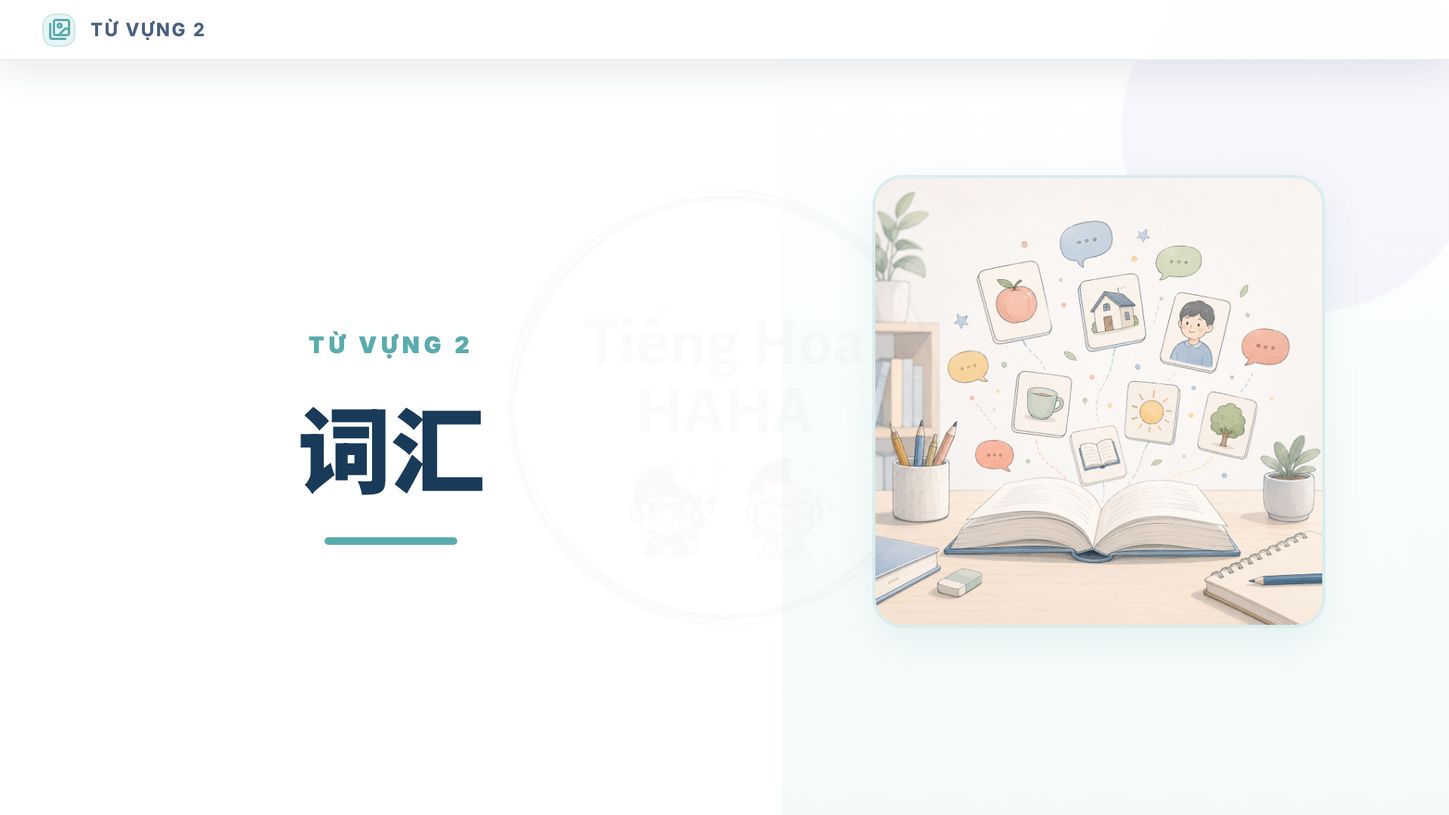
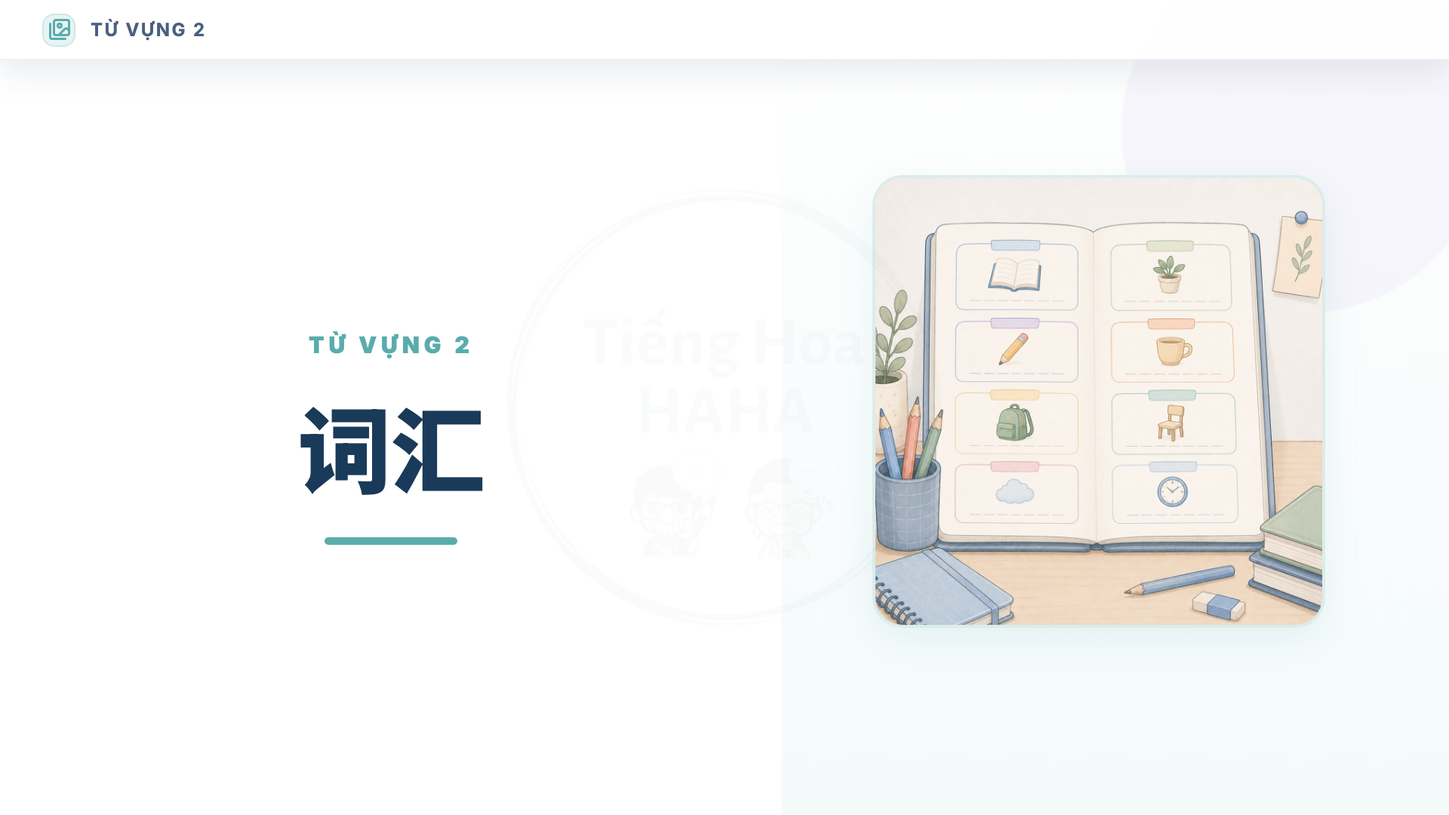
updated images of pinyin lesson 3

Changed region(s): [[0.5938, 0.2444, 0.9375, 0.7639]]

diff --git a/output/pinyin/pinyin-03/slides/38-rule-yi-first-tone.html b/output/pinyin/pinyin-03/slides/38-rule-yi-first-tone.html
@@ -1,4 +1,4 @@
-<!DOCTYPE html><html lang="vi"><head><meta charset="UTF-8"><meta name="viewport" content="width=960,height=540"><title>一 đọc yī</title><link href="https://fonts.googleapis.com/css2?family=Inter:wght@400;500;600;700;800;900&family=Noto+Sans+SC:wght@400;700;900&display=swap" rel="stylesheet"><script src="https://unpkg.com/lucide@0.460.0/dist/umd/lucide.min.js"></script><link rel="stylesheet" href="assets/slide-base.css"><style>
+<!DOCTYPE html><html lang="vi"><head><meta charset="UTF-8"><meta name="viewport" content="width=960,height=540"><title>Khi nào 一 đọc thanh 1?</title><link href="https://fonts.googleapis.com/css2?family=Inter:wght@400;500;600;700;800;900&family=Noto+Sans+SC:wght@400;700;900&display=swap" rel="stylesheet"><script src="https://unpkg.com/lucide@0.460.0/dist/umd/lucide.min.js"></script><link rel="stylesheet" href="assets/slide-base.css"><style>
 .content{position:absolute;left:58px;right:58px;top:68px;bottom:42px}
 .title-xl{font-size:34px;line-height:1.12;font-weight:900;color:#1A3A5A}.title-md{font-size:27px;line-height:1.16;font-weight:900;color:#1A3A5A}
 .muted{color:#5F7088}.teal{color:#5AACAC}.purple{color:#7C6BC8}.amber{color:#D59A2A}.red{color:#D85A6A}
@@ -28,4 +28,4 @@
 .listen-head{display:flex;align-items:center;justify-content:center;margin-bottom:16px;text-align:center}.listen-title{font-size:34px;font-weight:900;color:#1A3A5A;line-height:1.14}.final-bank{width:760px;margin:10px auto 22px;background:rgba(255,255,255,.86);border:1px solid rgba(90,172,172,.16);border-radius:16px;text-align:center;padding:10px 18px;box-shadow:0 6px 20px rgba(90,172,172,.08)}.final-bank-title{font-size:18px;color:#5F7088;font-weight:800;margin-bottom:6px}.finals{display:flex;justify-content:space-around;font-size:25px;font-weight:900;color:#3B7DB4}.listen-grid{width:760px;margin:0 auto;display:grid;grid-template-columns:repeat(3,1fr);column-gap:58px;row-gap:24px}.listen-item{font-size:28px;color:#202530;line-height:1.1;white-space:nowrap}.listen-no{font-size:26px;margin-right:8px;color:#202530}.blank{display:inline-block;width:52px;border-bottom:3px solid #202530;transform:translateY(-3px);margin:0 4px}.blank.short{width:44px}.initial-cue{display:inline-block;min-width:48px;text-align:center;font-weight:900;color:#1A3A5A;margin-right:4px}.answer-red{color:#F05A62;font-weight:950}.tone-cued{position:relative;display:inline-block;line-height:1;margin:0 1px;padding-top:12px;vertical-align:baseline}.tone-cue{position:absolute;top:0;left:50%;transform:translateX(-50%);font-size:12px;line-height:1;color:#8A9AB0;font-weight:900;white-space:nowrap}.tone-letter{line-height:1}
 
 .rule-center{position:absolute;left:60px;right:60px;top:92px;bottom:54px;display:flex;flex-direction:column;align-items:center;justify-content:center}.rule-center .title-xl{text-align:center;margin-bottom:28px}.rule-grid{width:100%;display:grid;grid-template-columns:repeat(3,1fr);gap:18px}.rule-card{height:154px;display:grid;grid-template-columns:1fr auto 1fr;align-items:center;justify-items:center;text-align:center;gap:10px}.rule-card .from,.rule-card .to{font-size:46px;line-height:1;font-weight:950;color:#1A3A5A}.rule-card .from{color:#7C6BC8}.rule-card .arrow{font-size:34px;font-weight:950;color:#5AACAC}.closing{position:relative;overflow:hidden;background:linear-gradient(112deg,#F5FAF4 0%,#FFFFFF 46%,#DFF1E8 100%)}.closing:before{content:"";position:absolute;left:34px;top:24px;width:300px;height:246px;border-radius:54% 46% 44% 56%;background:rgba(149,212,187,.23);z-index:0}.closing:after{content:"";position:absolute;right:-54px;bottom:-108px;width:372px;height:294px;border-radius:55% 45% 50% 50%;background:rgba(149,212,187,.20);z-index:0}.closing-card-ref{position:absolute;left:96px;right:84px;top:88px;bottom:62px;border-radius:34px;background:rgba(255,255,255,.96);box-shadow:0 18px 34px rgba(36,50,74,.18);z-index:1;display:flex;flex-direction:column;align-items:center;justify-content:center;text-align:center;padding-left:164px}.closing-door{position:absolute;left:-36px;top:-64px;width:290px;height:266px;object-fit:contain;z-index:2;filter:drop-shadow(0 6px 10px rgba(36,50,74,.10))}.closing-zh{font-family:'Noto Sans SC';font-size:84pt;line-height:.92;font-weight:900;color:#143C68;letter-spacing:0}.closing-sub{margin-top:30px;font-size:29pt;line-height:1.1;font-weight:900;color:#7BC6A7}.closing-next{margin-top:22px;font-size:17pt;line-height:1.25;font-weight:700;color:#6B6F76}
-.yi-first-content{top:86px}.yi-first-title{font-size:52px;line-height:1;font-weight:900;color:#1A3A5A;text-align:left}.yi-first-title span{font-family:'Noto Sans SC';color:#D85A6A}.yi-first-title b{color:#D85A6A}.yi-first-grid{display:grid;grid-template-columns:1fr 1fr;gap:22px;margin-top:24px}.yi-first-card{height:300px;padding:24px 26px}.yi-first-card-title{font-size:30px;line-height:1.1;font-weight:900;color:#1A3A5A}.yi-first-note{font-size:17px;line-height:1.35;font-weight:800;color:#5F7088;margin-top:8px}.yi-first-examples{display:flex;flex-direction:column;gap:12px;margin-top:18px}.yi-first-example{height:54px;border-radius:14px;background:#F7FBFB;border:1px solid rgba(90,172,172,.28);display:flex;align-items:center;justify-content:space-between;padding:0 18px}.yi-first-example .pin{font-size:21px;line-height:1;font-weight:900;color:#D85A6A}.yi-first-example .han{font-family:'Noto Sans SC';font-size:28px;line-height:1;font-weight:900;color:#1A3A5A}</style></head><body><div class="slide"><div class="menu-bar"><span class="menu-icon"><i data-lucide="wand-sparkles"></i></span><span class="section-label">Biến điệu</span></div><div class="content yi-first-content"><div class="yi-first-title"><span>一</span> đọc <b>yī</b></div><div class="yi-first-grid"><div class="soft-card yi-first-card"><div class="yi-first-card-title">Đọc thứ tự</div><div class="yi-first-note">Từ chỉ thứ tự.</div><div class="yi-first-examples"><div class="yi-first-example"><div class="pin">xīngqīyī</div><div class="han">星期一</div></div><div class="yi-first-example"><div class="pin">dìyī</div><div class="han">第一</div></div><div class="yi-first-example"><div class="pin">yīlóu</div><div class="han">一楼</div></div></div></div><div class="soft-card yi-first-card"><div class="yi-first-card-title">Đọc từng số</div><div class="yi-first-note">Khi đọc số điện thoại, năm, mã số.</div><div class="yi-first-examples"><div class="yi-first-example"><div class="pin">yī, sān, jiǔ...</div><div class="han">1, 3, 9...</div></div><div class="yi-first-example"><div class="pin">èr líng yī liù</div><div class="han">2016</div></div></div></div></div></div></div><script src="assets/slide-base.js"></script></body></html>
+.yi-first-content{top:86px}.yi-first-title{font-size:52px;line-height:1;font-weight:900;color:#1A3A5A;text-align:left}.yi-first-title span{font-family:'Noto Sans SC';color:#D85A6A}.yi-first-title b{color:#D85A6A}.yi-first-grid{display:grid;grid-template-columns:1fr 1fr;gap:22px;margin-top:24px}.yi-first-card{height:300px;padding:24px 26px}.yi-first-card-title{font-size:30px;line-height:1.1;font-weight:900;color:#1A3A5A}.yi-first-note{font-size:17px;line-height:1.35;font-weight:800;color:#5F7088;margin-top:8px}.yi-first-examples{display:flex;flex-direction:column;gap:12px;margin-top:18px}.yi-first-example{height:54px;border-radius:14px;background:#F7FBFB;border:1px solid rgba(90,172,172,.28);display:flex;align-items:center;justify-content:space-between;padding:0 18px}.yi-first-example .pin{font-size:21px;line-height:1;font-weight:900;color:#D85A6A}.yi-first-example .han{font-family:'Noto Sans SC';font-size:28px;line-height:1;font-weight:900;color:#1A3A5A}</style></head><body><div class="slide"><div class="menu-bar"><span class="menu-icon"><i data-lucide="wand-sparkles"></i></span><span class="section-label">Biến điệu</span></div><div class="content yi-first-content"><div class="yi-first-title">Khi nào <span>一</span> đọc thanh 1?</div><div class="yi-first-grid"><div class="soft-card yi-first-card"><div class="yi-first-card-title">Đọc thứ tự</div><div class="yi-first-note">Từ chỉ thứ tự.</div><div class="yi-first-examples"><div class="yi-first-example"><div class="pin">xīngqīyī</div><div class="han">星期一</div></div><div class="yi-first-example"><div class="pin">dìyī</div><div class="han">第一</div></div><div class="yi-first-example"><div class="pin">yīlóu</div><div class="han">一楼</div></div></div></div><div class="soft-card yi-first-card"><div class="yi-first-card-title">Đọc từng số</div><div class="yi-first-note">Khi đọc số điện thoại, năm, mã số.</div><div class="yi-first-examples"><div class="yi-first-example"><div class="pin">yī, sān, jiǔ...</div><div class="han">1, 3, 9...</div></div><div class="yi-first-example"><div class="pin">èr líng yī liù</div><div class="han">2016</div></div></div></div></div></div></div><script src="assets/slide-base.js"></script></body></html>

diff --git a/output/pinyin/pinyin-03/slides/37-divider-yi-bu.html b/output/pinyin/pinyin-03/slides/37-divider-yi-bu.html
@@ -28,4 +28,4 @@
 .listen-head{display:flex;align-items:center;justify-content:center;margin-bottom:16px;text-align:center}.listen-title{font-size:34px;font-weight:900;color:#1A3A5A;line-height:1.14}.final-bank{width:760px;margin:10px auto 22px;background:rgba(255,255,255,.86);border:1px solid rgba(90,172,172,.16);border-radius:16px;text-align:center;padding:10px 18px;box-shadow:0 6px 20px rgba(90,172,172,.08)}.final-bank-title{font-size:18px;color:#5F7088;font-weight:800;margin-bottom:6px}.finals{display:flex;justify-content:space-around;font-size:25px;font-weight:900;color:#3B7DB4}.listen-grid{width:760px;margin:0 auto;display:grid;grid-template-columns:repeat(3,1fr);column-gap:58px;row-gap:24px}.listen-item{font-size:28px;color:#202530;line-height:1.1;white-space:nowrap}.listen-no{font-size:26px;margin-right:8px;color:#202530}.blank{display:inline-block;width:52px;border-bottom:3px solid #202530;transform:translateY(-3px);margin:0 4px}.blank.short{width:44px}.initial-cue{display:inline-block;min-width:48px;text-align:center;font-weight:900;color:#1A3A5A;margin-right:4px}.answer-red{color:#F05A62;font-weight:950}.tone-cued{position:relative;display:inline-block;line-height:1;margin:0 1px;padding-top:12px;vertical-align:baseline}.tone-cue{position:absolute;top:0;left:50%;transform:translateX(-50%);font-size:12px;line-height:1;color:#8A9AB0;font-weight:900;white-space:nowrap}.tone-letter{line-height:1}
 
 .rule-center{position:absolute;left:60px;right:60px;top:92px;bottom:54px;display:flex;flex-direction:column;align-items:center;justify-content:center}.rule-center .title-xl{text-align:center;margin-bottom:28px}.rule-grid{width:100%;display:grid;grid-template-columns:repeat(3,1fr);gap:18px}.rule-card{height:154px;display:grid;grid-template-columns:1fr auto 1fr;align-items:center;justify-items:center;text-align:center;gap:10px}.rule-card .from,.rule-card .to{font-size:46px;line-height:1;font-weight:950;color:#1A3A5A}.rule-card .from{color:#7C6BC8}.rule-card .arrow{font-size:34px;font-weight:950;color:#5AACAC}.closing{position:relative;overflow:hidden;background:linear-gradient(112deg,#F5FAF4 0%,#FFFFFF 46%,#DFF1E8 100%)}.closing:before{content:"";position:absolute;left:34px;top:24px;width:300px;height:246px;border-radius:54% 46% 44% 56%;background:rgba(149,212,187,.23);z-index:0}.closing:after{content:"";position:absolute;right:-54px;bottom:-108px;width:372px;height:294px;border-radius:55% 45% 50% 50%;background:rgba(149,212,187,.20);z-index:0}.closing-card-ref{position:absolute;left:96px;right:84px;top:88px;bottom:62px;border-radius:34px;background:rgba(255,255,255,.96);box-shadow:0 18px 34px rgba(36,50,74,.18);z-index:1;display:flex;flex-direction:column;align-items:center;justify-content:center;text-align:center;padding-left:164px}.closing-door{position:absolute;left:-36px;top:-64px;width:290px;height:266px;object-fit:contain;z-index:2;filter:drop-shadow(0 6px 10px rgba(36,50,74,.10))}.closing-zh{font-family:'Noto Sans SC';font-size:84pt;line-height:.92;font-weight:900;color:#143C68;letter-spacing:0}.closing-sub{margin-top:30px;font-size:29pt;line-height:1.1;font-weight:900;color:#7BC6A7}.closing-next{margin-top:22px;font-size:17pt;line-height:1.25;font-weight:700;color:#6B6F76}
-</style></head><body><div class="slide"><div class="menu-bar"><span class="menu-icon"><i data-lucide="wand-sparkles"></i></span><span class="section-label">BIẾN ĐIỆU</span></div><div class="divider-left"><div class="divider-kicker">BIẾN ĐIỆU</div><div class="divider-zh">一不变调</div><div class="divider-line"></div></div><div class="divider-photo"><img src="assets/photos/divider-tones.png" alt=""></div></div><script src="assets/slide-base.js"></script></body></html>
+.divider-yi-bu-special .divider-kicker{font-size:22px;line-height:1.18;text-transform:none;letter-spacing:0;max-width:360px}.divider-yi-bu-special .divider-zh{font-size:56px;white-space:nowrap}</style></head><body><div class="slide"><div class="menu-bar"><span class="menu-icon"><i data-lucide="wand-sparkles"></i></span><span class="section-label">biến điệu của 一 và 不</span></div><div class="divider-left divider-yi-bu-special"><div class="divider-kicker">biến điệu của 一 và 不</div><div class="divider-zh">一、不变调</div><div class="divider-line"></div></div><div class="divider-photo"><img src="assets/photos/divider-yi-bu-pinyin-03.png" alt=""></div></div><script src="assets/slide-base.js"></script></body></html>

diff --git a/output/pinyin/pinyin-03/slides/05-divider-initials-1.html b/output/pinyin/pinyin-03/slides/05-divider-initials-1.html
@@ -28,4 +28,4 @@
 .listen-head{display:flex;align-items:center;justify-content:center;margin-bottom:16px;text-align:center}.listen-title{font-size:34px;font-weight:900;color:#1A3A5A;line-height:1.14}.final-bank{width:760px;margin:10px auto 22px;background:rgba(255,255,255,.86);border:1px solid rgba(90,172,172,.16);border-radius:16px;text-align:center;padding:10px 18px;box-shadow:0 6px 20px rgba(90,172,172,.08)}.final-bank-title{font-size:18px;color:#5F7088;font-weight:800;margin-bottom:6px}.finals{display:flex;justify-content:space-around;font-size:25px;font-weight:900;color:#3B7DB4}.listen-grid{width:760px;margin:0 auto;display:grid;grid-template-columns:repeat(3,1fr);column-gap:58px;row-gap:24px}.listen-item{font-size:28px;color:#202530;line-height:1.1;white-space:nowrap}.listen-no{font-size:26px;margin-right:8px;color:#202530}.blank{display:inline-block;width:52px;border-bottom:3px solid #202530;transform:translateY(-3px);margin:0 4px}.blank.short{width:44px}.initial-cue{display:inline-block;min-width:48px;text-align:center;font-weight:900;color:#1A3A5A;margin-right:4px}.answer-red{color:#F05A62;font-weight:950}.tone-cued{position:relative;display:inline-block;line-height:1;margin:0 1px;padding-top:12px;vertical-align:baseline}.tone-cue{position:absolute;top:0;left:50%;transform:translateX(-50%);font-size:12px;line-height:1;color:#8A9AB0;font-weight:900;white-space:nowrap}.tone-letter{line-height:1}
 
 .rule-center{position:absolute;left:60px;right:60px;top:92px;bottom:54px;display:flex;flex-direction:column;align-items:center;justify-content:center}.rule-center .title-xl{text-align:center;margin-bottom:28px}.rule-grid{width:100%;display:grid;grid-template-columns:repeat(3,1fr);gap:18px}.rule-card{height:154px;display:grid;grid-template-columns:1fr auto 1fr;align-items:center;justify-items:center;text-align:center;gap:10px}.rule-card .from,.rule-card .to{font-size:46px;line-height:1;font-weight:950;color:#1A3A5A}.rule-card .from{color:#7C6BC8}.rule-card .arrow{font-size:34px;font-weight:950;color:#5AACAC}.closing{position:relative;overflow:hidden;background:linear-gradient(112deg,#F5FAF4 0%,#FFFFFF 46%,#DFF1E8 100%)}.closing:before{content:"";position:absolute;left:34px;top:24px;width:300px;height:246px;border-radius:54% 46% 44% 56%;background:rgba(149,212,187,.23);z-index:0}.closing:after{content:"";position:absolute;right:-54px;bottom:-108px;width:372px;height:294px;border-radius:55% 45% 50% 50%;background:rgba(149,212,187,.20);z-index:0}.closing-card-ref{position:absolute;left:96px;right:84px;top:88px;bottom:62px;border-radius:34px;background:rgba(255,255,255,.96);box-shadow:0 18px 34px rgba(36,50,74,.18);z-index:1;display:flex;flex-direction:column;align-items:center;justify-content:center;text-align:center;padding-left:164px}.closing-door{position:absolute;left:-36px;top:-64px;width:290px;height:266px;object-fit:contain;z-index:2;filter:drop-shadow(0 6px 10px rgba(36,50,74,.10))}.closing-zh{font-family:'Noto Sans SC';font-size:84pt;line-height:.92;font-weight:900;color:#143C68;letter-spacing:0}.closing-sub{margin-top:30px;font-size:29pt;line-height:1.1;font-weight:900;color:#7BC6A7}.closing-next{margin-top:22px;font-size:17pt;line-height:1.25;font-weight:700;color:#6B6F76}
-</style></head><body><div class="slide"><div class="menu-bar"><span class="menu-icon"><i data-lucide="volume-2"></i></span><span class="section-label">THANH MẪU 1</span></div><div class="divider-left"><div class="divider-kicker">THANH MẪU 1</div><div class="divider-zh">翘舌音</div><div class="divider-line"></div></div><div class="divider-photo"><img src="assets/photos/divider-initials.png" alt=""></div></div><script src="assets/slide-base.js"></script></body></html>
+</style></head><body><div class="slide"><div class="menu-bar"><span class="menu-icon"><i data-lucide="volume-2"></i></span><span class="section-label">THANH MẪU 1</span></div><div class="divider-left"><div class="divider-kicker">THANH MẪU 1</div><div class="divider-zh">翘舌音</div><div class="divider-line"></div></div><div class="divider-photo"><img src="assets/photos/divider-initials-zhchshr.png" alt=""></div></div><script src="assets/slide-base.js"></script></body></html>

diff --git a/output/pinyin/pinyin-03/slides/09-divider-vocabulary-1.html b/output/pinyin/pinyin-03/slides/09-divider-vocabulary-1.html
@@ -28,4 +28,4 @@
 .listen-head{display:flex;align-items:center;justify-content:center;margin-bottom:16px;text-align:center}.listen-title{font-size:34px;font-weight:900;color:#1A3A5A;line-height:1.14}.final-bank{width:760px;margin:10px auto 22px;background:rgba(255,255,255,.86);border:1px solid rgba(90,172,172,.16);border-radius:16px;text-align:center;padding:10px 18px;box-shadow:0 6px 20px rgba(90,172,172,.08)}.final-bank-title{font-size:18px;color:#5F7088;font-weight:800;margin-bottom:6px}.finals{display:flex;justify-content:space-around;font-size:25px;font-weight:900;color:#3B7DB4}.listen-grid{width:760px;margin:0 auto;display:grid;grid-template-columns:repeat(3,1fr);column-gap:58px;row-gap:24px}.listen-item{font-size:28px;color:#202530;line-height:1.1;white-space:nowrap}.listen-no{font-size:26px;margin-right:8px;color:#202530}.blank{display:inline-block;width:52px;border-bottom:3px solid #202530;transform:translateY(-3px);margin:0 4px}.blank.short{width:44px}.initial-cue{display:inline-block;min-width:48px;text-align:center;font-weight:900;color:#1A3A5A;margin-right:4px}.answer-red{color:#F05A62;font-weight:950}.tone-cued{position:relative;display:inline-block;line-height:1;margin:0 1px;padding-top:12px;vertical-align:baseline}.tone-cue{position:absolute;top:0;left:50%;transform:translateX(-50%);font-size:12px;line-height:1;color:#8A9AB0;font-weight:900;white-space:nowrap}.tone-letter{line-height:1}
 
 .rule-center{position:absolute;left:60px;right:60px;top:92px;bottom:54px;display:flex;flex-direction:column;align-items:center;justify-content:center}.rule-center .title-xl{text-align:center;margin-bottom:28px}.rule-grid{width:100%;display:grid;grid-template-columns:repeat(3,1fr);gap:18px}.rule-card{height:154px;display:grid;grid-template-columns:1fr auto 1fr;align-items:center;justify-items:center;text-align:center;gap:10px}.rule-card .from,.rule-card .to{font-size:46px;line-height:1;font-weight:950;color:#1A3A5A}.rule-card .from{color:#7C6BC8}.rule-card .arrow{font-size:34px;font-weight:950;color:#5AACAC}.closing{position:relative;overflow:hidden;background:linear-gradient(112deg,#F5FAF4 0%,#FFFFFF 46%,#DFF1E8 100%)}.closing:before{content:"";position:absolute;left:34px;top:24px;width:300px;height:246px;border-radius:54% 46% 44% 56%;background:rgba(149,212,187,.23);z-index:0}.closing:after{content:"";position:absolute;right:-54px;bottom:-108px;width:372px;height:294px;border-radius:55% 45% 50% 50%;background:rgba(149,212,187,.20);z-index:0}.closing-card-ref{position:absolute;left:96px;right:84px;top:88px;bottom:62px;border-radius:34px;background:rgba(255,255,255,.96);box-shadow:0 18px 34px rgba(36,50,74,.18);z-index:1;display:flex;flex-direction:column;align-items:center;justify-content:center;text-align:center;padding-left:164px}.closing-door{position:absolute;left:-36px;top:-64px;width:290px;height:266px;object-fit:contain;z-index:2;filter:drop-shadow(0 6px 10px rgba(36,50,74,.10))}.closing-zh{font-family:'Noto Sans SC';font-size:84pt;line-height:.92;font-weight:900;color:#143C68;letter-spacing:0}.closing-sub{margin-top:30px;font-size:29pt;line-height:1.1;font-weight:900;color:#7BC6A7}.closing-next{margin-top:22px;font-size:17pt;line-height:1.25;font-weight:700;color:#6B6F76}
-</style></head><body><div class="slide"><div class="menu-bar"><span class="menu-icon"><i data-lucide="images"></i></span><span class="section-label">TỪ VỰNG 1</span></div><div class="divider-left"><div class="divider-kicker">TỪ VỰNG 1</div><div class="divider-zh">词汇</div><div class="divider-line"></div></div><div class="divider-photo"><img src="assets/photos/divider-vocabulary.png" alt=""></div></div><script src="assets/slide-base.js"></script></body></html>
+</style></head><body><div class="slide"><div class="menu-bar"><span class="menu-icon"><i data-lucide="images"></i></span><span class="section-label">TỪ VỰNG 1</span></div><div class="divider-left"><div class="divider-kicker">TỪ VỰNG 1</div><div class="divider-zh">词汇</div><div class="divider-line"></div></div><div class="divider-photo"><img src="assets/photos/divider-vocabulary-pinyin-03.png" alt=""></div></div><script src="assets/slide-base.js"></script></body></html>

diff --git a/output/pinyin/pinyin-03/slides/21-divider-initials-2.html b/output/pinyin/pinyin-03/slides/21-divider-initials-2.html
@@ -28,4 +28,4 @@
 .listen-head{display:flex;align-items:center;justify-content:center;margin-bottom:16px;text-align:center}.listen-title{font-size:34px;font-weight:900;color:#1A3A5A;line-height:1.14}.final-bank{width:760px;margin:10px auto 22px;background:rgba(255,255,255,.86);border:1px solid rgba(90,172,172,.16);border-radius:16px;text-align:center;padding:10px 18px;box-shadow:0 6px 20px rgba(90,172,172,.08)}.final-bank-title{font-size:18px;color:#5F7088;font-weight:800;margin-bottom:6px}.finals{display:flex;justify-content:space-around;font-size:25px;font-weight:900;color:#3B7DB4}.listen-grid{width:760px;margin:0 auto;display:grid;grid-template-columns:repeat(3,1fr);column-gap:58px;row-gap:24px}.listen-item{font-size:28px;color:#202530;line-height:1.1;white-space:nowrap}.listen-no{font-size:26px;margin-right:8px;color:#202530}.blank{display:inline-block;width:52px;border-bottom:3px solid #202530;transform:translateY(-3px);margin:0 4px}.blank.short{width:44px}.initial-cue{display:inline-block;min-width:48px;text-align:center;font-weight:900;color:#1A3A5A;margin-right:4px}.answer-red{color:#F05A62;font-weight:950}.tone-cued{position:relative;display:inline-block;line-height:1;margin:0 1px;padding-top:12px;vertical-align:baseline}.tone-cue{position:absolute;top:0;left:50%;transform:translateX(-50%);font-size:12px;line-height:1;color:#8A9AB0;font-weight:900;white-space:nowrap}.tone-letter{line-height:1}
 
 .rule-center{position:absolute;left:60px;right:60px;top:92px;bottom:54px;display:flex;flex-direction:column;align-items:center;justify-content:center}.rule-center .title-xl{text-align:center;margin-bottom:28px}.rule-grid{width:100%;display:grid;grid-template-columns:repeat(3,1fr);gap:18px}.rule-card{height:154px;display:grid;grid-template-columns:1fr auto 1fr;align-items:center;justify-items:center;text-align:center;gap:10px}.rule-card .from,.rule-card .to{font-size:46px;line-height:1;font-weight:950;color:#1A3A5A}.rule-card .from{color:#7C6BC8}.rule-card .arrow{font-size:34px;font-weight:950;color:#5AACAC}.closing{position:relative;overflow:hidden;background:linear-gradient(112deg,#F5FAF4 0%,#FFFFFF 46%,#DFF1E8 100%)}.closing:before{content:"";position:absolute;left:34px;top:24px;width:300px;height:246px;border-radius:54% 46% 44% 56%;background:rgba(149,212,187,.23);z-index:0}.closing:after{content:"";position:absolute;right:-54px;bottom:-108px;width:372px;height:294px;border-radius:55% 45% 50% 50%;background:rgba(149,212,187,.20);z-index:0}.closing-card-ref{position:absolute;left:96px;right:84px;top:88px;bottom:62px;border-radius:34px;background:rgba(255,255,255,.96);box-shadow:0 18px 34px rgba(36,50,74,.18);z-index:1;display:flex;flex-direction:column;align-items:center;justify-content:center;text-align:center;padding-left:164px}.closing-door{position:absolute;left:-36px;top:-64px;width:290px;height:266px;object-fit:contain;z-index:2;filter:drop-shadow(0 6px 10px rgba(36,50,74,.10))}.closing-zh{font-family:'Noto Sans SC';font-size:84pt;line-height:.92;font-weight:900;color:#143C68;letter-spacing:0}.closing-sub{margin-top:30px;font-size:29pt;line-height:1.1;font-weight:900;color:#7BC6A7}.closing-next{margin-top:22px;font-size:17pt;line-height:1.25;font-weight:700;color:#6B6F76}
-</style></head><body><div class="slide"><div class="menu-bar"><span class="menu-icon"><i data-lucide="volume-2"></i></span><span class="section-label">THANH MẪU 2</span></div><div class="divider-left"><div class="divider-kicker">THANH MẪU 2</div><div class="divider-zh">平舌音</div><div class="divider-line"></div></div><div class="divider-photo"><img src="assets/photos/divider-initials.png" alt=""></div></div><script src="assets/slide-base.js"></script></body></html>
+</style></head><body><div class="slide"><div class="menu-bar"><span class="menu-icon"><i data-lucide="volume-2"></i></span><span class="section-label">THANH MẪU 2</span></div><div class="divider-left"><div class="divider-kicker">THANH MẪU 2</div><div class="divider-zh">平舌音</div><div class="divider-line"></div></div><div class="divider-photo"><img src="assets/photos/divider-initials-zcs.png" alt=""></div></div><script src="assets/slide-base.js"></script></body></html>

diff --git a/output/pinyin/pinyin-03/slides/25-divider-vocabulary-2.html b/output/pinyin/pinyin-03/slides/25-divider-vocabulary-2.html
@@ -28,4 +28,4 @@
 .listen-head{display:flex;align-items:center;justify-content:center;margin-bottom:16px;text-align:center}.listen-title{font-size:34px;font-weight:900;color:#1A3A5A;line-height:1.14}.final-bank{width:760px;margin:10px auto 22px;background:rgba(255,255,255,.86);border:1px solid rgba(90,172,172,.16);border-radius:16px;text-align:center;padding:10px 18px;box-shadow:0 6px 20px rgba(90,172,172,.08)}.final-bank-title{font-size:18px;color:#5F7088;font-weight:800;margin-bottom:6px}.finals{display:flex;justify-content:space-around;font-size:25px;font-weight:900;color:#3B7DB4}.listen-grid{width:760px;margin:0 auto;display:grid;grid-template-columns:repeat(3,1fr);column-gap:58px;row-gap:24px}.listen-item{font-size:28px;color:#202530;line-height:1.1;white-space:nowrap}.listen-no{font-size:26px;margin-right:8px;color:#202530}.blank{display:inline-block;width:52px;border-bottom:3px solid #202530;transform:translateY(-3px);margin:0 4px}.blank.short{width:44px}.initial-cue{display:inline-block;min-width:48px;text-align:center;font-weight:900;color:#1A3A5A;margin-right:4px}.answer-red{color:#F05A62;font-weight:950}.tone-cued{position:relative;display:inline-block;line-height:1;margin:0 1px;padding-top:12px;vertical-align:baseline}.tone-cue{position:absolute;top:0;left:50%;transform:translateX(-50%);font-size:12px;line-height:1;color:#8A9AB0;font-weight:900;white-space:nowrap}.tone-letter{line-height:1}
 
 .rule-center{position:absolute;left:60px;right:60px;top:92px;bottom:54px;display:flex;flex-direction:column;align-items:center;justify-content:center}.rule-center .title-xl{text-align:center;margin-bottom:28px}.rule-grid{width:100%;display:grid;grid-template-columns:repeat(3,1fr);gap:18px}.rule-card{height:154px;display:grid;grid-template-columns:1fr auto 1fr;align-items:center;justify-items:center;text-align:center;gap:10px}.rule-card .from,.rule-card .to{font-size:46px;line-height:1;font-weight:950;color:#1A3A5A}.rule-card .from{color:#7C6BC8}.rule-card .arrow{font-size:34px;font-weight:950;color:#5AACAC}.closing{position:relative;overflow:hidden;background:linear-gradient(112deg,#F5FAF4 0%,#FFFFFF 46%,#DFF1E8 100%)}.closing:before{content:"";position:absolute;left:34px;top:24px;width:300px;height:246px;border-radius:54% 46% 44% 56%;background:rgba(149,212,187,.23);z-index:0}.closing:after{content:"";position:absolute;right:-54px;bottom:-108px;width:372px;height:294px;border-radius:55% 45% 50% 50%;background:rgba(149,212,187,.20);z-index:0}.closing-card-ref{position:absolute;left:96px;right:84px;top:88px;bottom:62px;border-radius:34px;background:rgba(255,255,255,.96);box-shadow:0 18px 34px rgba(36,50,74,.18);z-index:1;display:flex;flex-direction:column;align-items:center;justify-content:center;text-align:center;padding-left:164px}.closing-door{position:absolute;left:-36px;top:-64px;width:290px;height:266px;object-fit:contain;z-index:2;filter:drop-shadow(0 6px 10px rgba(36,50,74,.10))}.closing-zh{font-family:'Noto Sans SC';font-size:84pt;line-height:.92;font-weight:900;color:#143C68;letter-spacing:0}.closing-sub{margin-top:30px;font-size:29pt;line-height:1.1;font-weight:900;color:#7BC6A7}.closing-next{margin-top:22px;font-size:17pt;line-height:1.25;font-weight:700;color:#6B6F76}
-</style></head><body><div class="slide"><div class="menu-bar"><span class="menu-icon"><i data-lucide="images"></i></span><span class="section-label">TỪ VỰNG 2</span></div><div class="divider-left"><div class="divider-kicker">TỪ VỰNG 2</div><div class="divider-zh">词汇</div><div class="divider-line"></div></div><div class="divider-photo"><img src="assets/photos/divider-vocabulary.png" alt=""></div></div><script src="assets/slide-base.js"></script></body></html>
+</style></head><body><div class="slide"><div class="menu-bar"><span class="menu-icon"><i data-lucide="images"></i></span><span class="section-label">TỪ VỰNG 2</span></div><div class="divider-left"><div class="divider-kicker">TỪ VỰNG 2</div><div class="divider-zh">词汇</div><div class="divider-line"></div></div><div class="divider-photo"><img src="assets/photos/divider-vocabulary-pinyin-03.png" alt=""></div></div><script src="assets/slide-base.js"></script></body></html>
